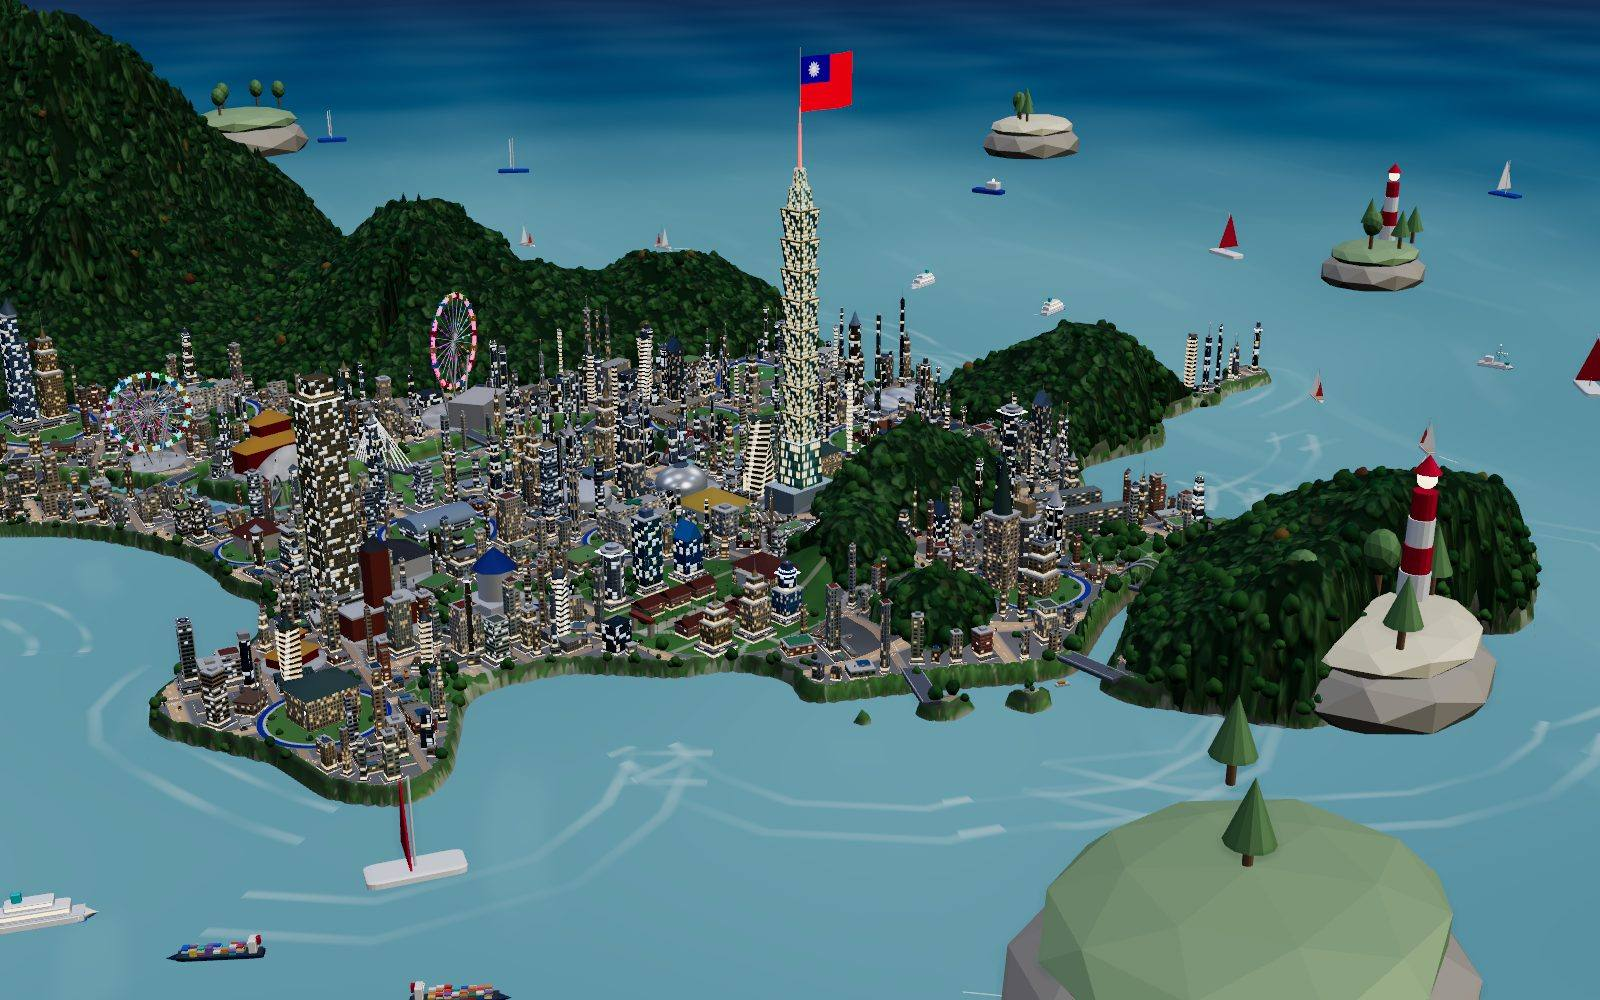
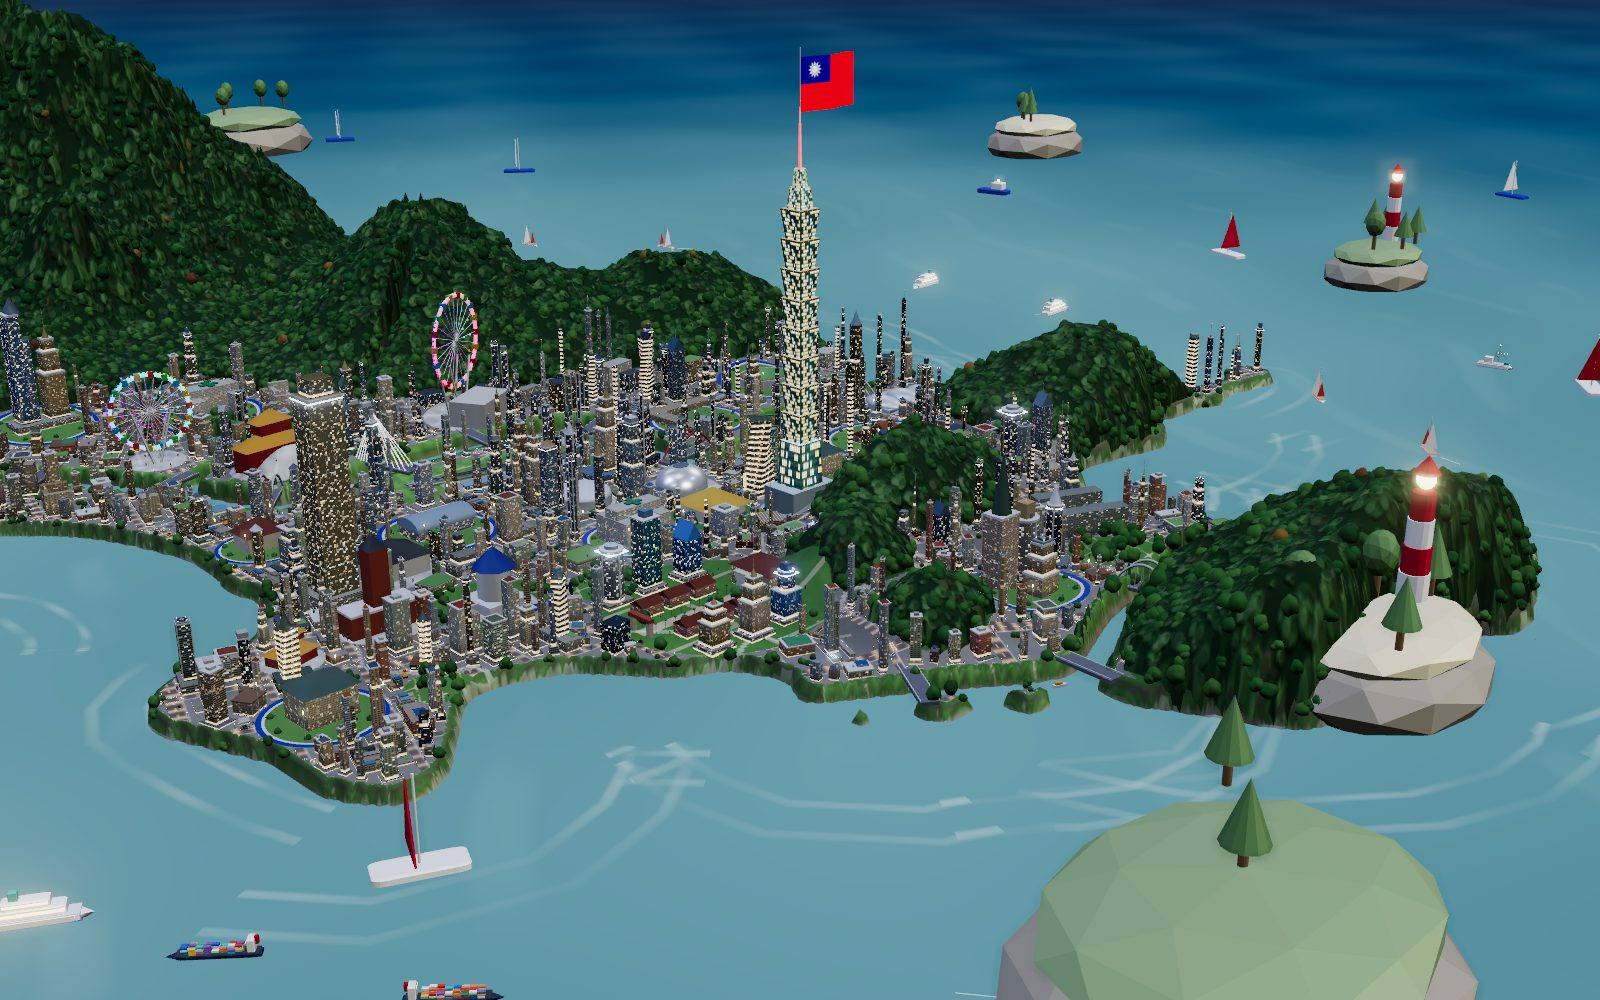
v0.6.4 lighting: brighter sun, stronger moon, varied smaller windows, street lamps with road light pools, night bloom
Claude-Session: https://claude.ai/code/session_01U84tuC4LtVWC4rHRAY9nXo

diff --git a/prototypes/taipei-real-v060.js b/prototypes/taipei-real-v060.js
@@ -59,6 +59,8 @@ const DIST=opts.districts||DISTRICTS;
 const DN=['北投','士林','內湖','中山','大同','松山','南港','信義','大安','中正','萬華','文山'];
 const DP={北投:[.55,7.8,1.7],士林:[.25,7.8,1.9],內湖:[-.2,8.8,2.1],中山:[0,7.8,2.5],大同:[.02,6.8,1.8],松山:[0,8.3,2.5],南港:[.15,8.8,1.9],信義:[0,8.3,2.3],大安:[0,8.3,2.5],中正:[.05,7.8,2.3],萬華:[.32,6.8,1.7],文山:[.42,7.8,1.9]};
 const W=240,MS=768,S=MS/W,N=361,CELL=W/(N-1),TS=2048;
+// 夜景細節（預設關閉，維持 v0.6.1 外觀）：windowScale 縮小窗格、windowVariety 窗燈色溫與亮度各異、streetLamps 路燈與路面光圈
+const WSC=opts.windowScale||1,WVAR=!!opts.windowVariety,SLAMP=!!opts.streetLamps;
 
 /* ---------- utils ---------- */
 function hash(i,j){let n=Math.imul(i,374761393)+Math.imul(j,668265263);n=Math.imul(n^(n>>>13),1274126177);n^=n>>>16;return (n>>>0)/4294967295;}
@@ -308,8 +310,13 @@ landMat.onBeforeCompile=sh=>{Object.assign(sh.uniforms,{uUrban:{value:urbanTex},
    if(rv>.5&&ru<.5){paint=max(paint,(wv>1.?1.-smoothstep(.022-fw,.022+fw,abs(mv-wv*.5)):0.)*step(fract(u/1.1),.5));
      float near=step(mu,wu+.3)+step(B-.3,mu);paint=max(paint,min(near,1.)*step(.5,fract(v*9.))*step(.06,mv)*step(mv,wv-.06));}
    vec3 col=mix(diffuseColor.rgb,vec3(.62,.61,.58),curb);col=mix(col,asph,road);col=mix(col,vec3(.86,.86,.84),paint*road);
-   diffuseColor.rgb=mix(diffuseColor.rgb,col,smoothstep(.35,.6,um));roadGlow=road*(art?1.:.55)*smoothstep(.35,.6,um);}}`).replace('#include <emissivemap_fragment>','#include <emissivemap_fragment>\n totalEmissiveRadiance+=emissive*vec3(1.,.62,.3)*roadGlow*.55;');};
-landMat.customProgramCacheKey=()=>'tpi-land-roads-v1';
+   diffuseColor.rgb=mix(diffuseColor.rgb,col,smoothstep(.35,.6,um));roadGlow=road*(art?1.:.55)*smoothstep(.35,.6,um);
+   #ifdef SLAMP
+   {float pu=fract(v/1.3)-.5,pv=fract(u/1.3)-.5,poolU=exp(-pu*pu*28.),poolV=exp(-pv*pv*28.);float pool=ru>rv?poolU:poolV;
+    roadGlow=(road*(art?1.:.75)*(.12+1.1*pool)+curb*pool*.7)*smoothstep(.35,.6,um);}
+   #endif
+   }}`).replace('#include <emissivemap_fragment>','#include <emissivemap_fragment>\n totalEmissiveRadiance+=emissive*vec3(1.,.62,.3)*roadGlow*.55;');};
+if(SLAMP)landMat.defines={SLAMP:''};landMat.customProgramCacheKey=()=>'tpi-land-roads-v1'+(SLAMP?'L':'');
 const land=new THREE.Mesh(tgeo,landMat);
 land.receiveShadow=true;scene.add(land);
 
@@ -378,10 +385,18 @@ function patch(mat,fw,fh,ws){mat.onBeforeCompile=sh=>{Object.assign(sh.uniforms,
  diffuseColor.rgb*=mix(0.55,1.0,smoothstep(0.0,1.6,vLocalY))*mix(0.94,1.0,smoothstep(0.0,6.0,vLocalY));
 #endif`).replace('#include <emissivemap_fragment>',`#ifdef USE_EMISSIVEMAP
  vec2 wcell=floor(vEmissiveMapUv*vec2(4.0,8.0));float wr=fract(sin(dot(wcell,vec2(12.9898,78.233))+dot(floor(vWorldXZ),vec2(3.17,7.31)))*43758.5453);
+#ifdef WINVAR
+ vec3 em=texture2D(emissiveMap,vEmissiveMapUv).rgb;float lum=max(em.r,max(em.g,em.b));
+ float w2=fract(sin(dot(wcell,vec2(91.7,27.3))+dot(floor(vWorldXZ),vec2(5.1,1.7)))*24634.6),w3=fract(wr*7.31+w2*3.17);
+ vec3 tint=w2<.5?vec3(1.,.78,.48):w2<.76?vec3(1.,.93,.8):w2<.9?vec3(.72,.86,1.):vec3(1.,.58,.32);
+ totalEmissiveRadiance*=lum*tint*(1.0-vRoof)*step(0.52,wr)*(0.25+0.95*w3*w3);
+#else
  totalEmissiveRadiance*=texture2D(emissiveMap,vEmissiveMapUv).rgb*(1.0-vRoof)*step(0.42,wr)*(0.45+0.55*wr);
+#endif
  totalEmissiveRadiance+=emissive*vec3(1.0,0.72,0.42)*0.9*(1.0-smoothstep(0.16,0.3,vLocalY))*(1.0-vRoof);
 #endif`);};
- mat.customProgramCacheKey=()=>'fac160'+fw+'_'+fh+'_'+ws;}
+ if(WVAR)mat.defines={...(mat.defines||{}),WINVAR:''};
+ mat.customProgramCacheKey=()=>'fac160'+fw+'_'+fh+'_'+ws+(WVAR?'v':'');}
 
 /* ---------- geometries ---------- */
 function prism(){const p=[-.5,0,-.5,-.5,0,.5,-.5,1,0, .5,0,.5,.5,0,-.5,.5,1,0, -.5,0,.5,.5,0,.5,.5,1,0, -.5,0,.5,.5,1,0,-.5,1,0, .5,0,-.5,-.5,0,-.5,-.5,1,0, .5,0,-.5,-.5,1,0,.5,1,0];
@@ -396,7 +411,7 @@ const beaconM=nightable(new THREE.MeshStandardMaterial({color:'#ff3a2a',emissive
 const groups={};
 function put(g,mt,x,y,z,sx,sy,sz,ry,c){const key=g+'|'+mt;(groups[key]||(groups[key]={g,mt,list:[]})).list.push([x,y,z,sx,sy,sz,ry,c]);}
 function flush(){Object.values(groups).forEach(gr=>{let mat;
-  if(typeof gr.mt==='number'){const f=FT[gr.mt];mat=nightable(new THREE.MeshStandardMaterial({map:f.m,emissiveMap:f.em,roughnessMap:f.rm,normalMap:f.nm,normalScale:new THREE.Vector2(1.3,1.3),emissive:'#ffffff',roughness:1,metalness:gr.mt===1?.5:.05,envMapIntensity:gr.mt===1?1:.6}),0,.9);patch(mat,f.fw,f.fh,WS[gr.g]||1);}
+  if(typeof gr.mt==='number'){const f=FT[gr.mt];mat=nightable(new THREE.MeshStandardMaterial({map:f.m,emissiveMap:f.em,roughnessMap:f.rm,normalMap:f.nm,normalScale:new THREE.Vector2(1.3,1.3),emissive:'#ffffff',roughness:1,metalness:gr.mt===1?.5:.05,envMapIntensity:gr.mt===1?1:.6}),0,.9);patch(mat,f.fw*WSC,f.fh*WSC,WS[gr.g]||1);}
   else mat=gr.mt==='metal'?metalM:gr.mt==='beacon'?beaconM:gr.mt==='lamp'?lampM:gr.mt==='led'?ledM:plainM;
   const im=new THREE.InstancedMesh(typeof gr.mt==='number'&&gr.g==='box'?GEO.rbox:GEO[gr.g],mat,gr.list.length);
   gr.list.forEach((b,i)=>{qq.setFromAxisAngle(YAX,b[6]);m4.compose(pv.set(b[0],b[1],b[2]),qq,sv.set(b[3],b[4],b[5]));im.setMatrixAt(i,m4);im.setColorAt(i,col.set(b[7]||'#ffffff'));});
@@ -545,6 +560,9 @@ DN.forEach((nm,di)=>{const [ang,B]=DP[nm],c=Math.cos(ang),s=Math.sin(ang),id=di+
     {const vm=iv*B+B/2,um=iu*B+B/2;for(const [uu,vv,dx,dz,L] of [[iu*B+wu+.07,iv*B+wv,-s,c,B-wv],[iu*B+B-.07,iv*B+wv,-s,c,B-wv],[iu*B+wu,iv*B+wv+.07,c,s,B-wu],[iu*B+wu,iv*B+B-.07,c,s,B-wu]]){
       const x0=uu*c-vv*s,z0=uu*s+vv*c,mx=x0+dx*L/2,mz=z0+dz*L/2;if(did(mx,mz)===id&&urb(mx,mz)&&rnd()<.55)walkPaths.push([x0,z0,dx,dz,L]);}}
     if(wu>1)for(let t=0;t<B;t+=1.3){const u=iu*B-.05,v=iv*B+t,x=u*c-v*s,z=u*s+v*c;if(rnd()<.35&&did(x,z)===id&&urb(x,z))streetTrees.push([x,z]);}
+    if(SLAMP){const lamp=(x,z)=>{if(did(x,z)!==id||!urb(x,z))return;const y=Hh(x,z)-.05;put('tank','metal',x,y,z,.025,.34,.025,0,'#8d949a');put('bead','lamp',x,y+.35,z,.07,.05,.07,0);};
+     for(let m=Math.ceil((iv*B+wv)/1.3-.5);(m+.5)*1.3<iv*B+B-.2;m++){const v=(m+.5)*1.3,u=m%2?iu*B-.07:iu*B+wu+.07;lamp(u*c-v*s,u*s+v*c);}
+     for(let m=Math.ceil((iu*B+wu)/1.3-.5);(m+.5)*1.3<iu*B+B-.2;m++){const u=(m+.5)*1.3,v=m%2?iv*B-.07:iv*B+wv+.07;lamp(u*c-v*s,u*s+v*c);}}
     if(wv>1)for(let t=0;t<B;t+=1.3){const u=iu*B+t,v=iv*B-.05,x=u*c-v*s,z=u*s+v*c;if(rnd()<.35&&did(x,z)===id&&urb(x,z))streetTrees.push([x,z]);}
     if(carData.length<700){
     if(wu>1)[[.28,1],[.72,-1]].forEach(([f,sg])=>{if(rnd()<.6){const u=iu*B+wu*f,v0=iv*B+wv,L=B-wv,mx=u*c-(v0+L/2)*s,mz=u*s+(v0+L/2)*c;if(did(mx,mz)===id&&urb(mx,mz)){const vs=sg>0?v0:v0+L;carData.push([u*c-vs*s,u*s+vs*c,-s*sg,c*sg,L,rnd()*L,.5+rnd()*.5,Hh(mx,mz)]);}}});

diff --git a/prototypes/greater-taipei-v0.6.4.html b/prototypes/greater-taipei-v0.6.4.html
@@ -820,6 +820,7 @@ if(h){if(themeById.has(h))openTheme(h);else if(items.has(h))openItem(h);else if(
 <script type="module" onerror="window.cityLoadFailed()">
 import * as THREE from "three";
 import {createTaipeiIsland as createRealTaipei} from './taipei-real-v060.js?rev=2';
+import {UnrealBloomPass} from 'three/addons/postprocessing/UnrealBloomPass.js';
 import {createPanoramaLife} from "./panorama-life-v0412.js";
 import {buildTransportNetwork} from './transport-network-v0411.js?rev=1';
 import { OrbitControls } from "three/addons/controls/OrbitControls.js";
@@ -4158,7 +4159,7 @@ const REAL_TAIPEI={};
  let cx0=1e9,cx1=-1e9,cz0=1e9,cz1=-1e9;for(const [x,z] of coast){cx0=Math.min(cx0,x);cx1=Math.max(cx1,x);cz0=Math.min(cz0,z);cz1=Math.max(cz1,z);}
  const tpIslands=islands.filter(i=>i.city==='taipei');
  const themes=tpIslands.map(i=>({id:i.t.id,name:i.t.name,kind:i.t.kind,area:i.t.area,no:i.t.no,items:i.t.items||[]}));
- const real=createRealTaipei(document.createElement('div'),{embed:true,renderer,postprocessing:false,ui:false,policies:themes,cityColor:cityHex('taipei'),flagScale:2,campusRadius:5.4,campusHeight:2.2,nightBoost:1.15,carScale:1.5,walkerScale:3.2});
+ const real=createRealTaipei(document.createElement('div'),{embed:true,renderer,postprocessing:false,ui:false,policies:themes,cityColor:cityHex('taipei'),flagScale:2,windowScale:.5,windowVariety:true,streetLamps:true,campusRadius:5.4,campusHeight:2.2,nightBoost:1.15,carScale:1.5,walkerScale:3.2});
  const g=real.root,lb=g.userData.landBounds;
  const k=Math.min((cx1-cx0)/(lb.maxX-lb.minX),(cz1-cz0)/(lb.maxZ-lb.minZ))*1.02;
  g.scale.setScalar(k);
@@ -4239,9 +4240,9 @@ APPROVED_ART.update=(dt,time,moving)=>{APPROVED_ART.transport.update(dt,time,mov
 APPROVED_ART.ao=artAO;
 {const nativeUpdate=APPROVED_ART.update;let realNight=null;const lightBase=new Map(),lightSet=new Map();let lights=null,envMats=null,envKey='';
  const moon=new THREE.DirectionalLight('#aec6ff',0);moon.name='moonlight';moon.position.set(-70,140,-50);scene.add(moon);scene.add(moon.target);
- window.NIGHT_LOOK=window.NIGHT_LOOK||{dim:.55,env:.6,moon:.9};
+ window.NIGHT_LOOK=window.NIGHT_LOOK||{dim:.45,env:.55,moon:1.6,day:.35};
  const dimNature=()=>{const L=window.NIGHT_LOOK;if(!lights){lights=[];scene.traverse(o=>{if((o.isHemisphereLight||o.isDirectionalLight||o.isAmbientLight)&&o!==moon)lights.push(o);});}
-  const night=ENV.state?.night||0,f=1-L.dim*night,key=night.toFixed(2)+'/'+L.env;
+  const night=ENV.state?.night||0,f=(1-L.dim*night)*(1+(L.day||0)*(1-night)),key=night.toFixed(2)+'/'+L.env;
   if(key!==envKey){envKey=key;if(!envMats){envMats=new Map();scene.traverse(o=>{if(o.isMesh)for(const m of [o.material].flat())if(m&&m.isMeshStandardMaterial&&!envMats.has(m))envMats.set(m,m.envMapIntensity);});}envMats.forEach((v,m)=>m.envMapIntensity=v*(1-L.env*night));}
   lights.forEach(o=>{if(!lightSet.has(o)||Math.abs(o.intensity-lightSet.get(o))>1e-6)lightBase.set(o,o.intensity);const v=lightBase.get(o)*f;o.intensity=v;lightSet.set(o,v);});
   moon.intensity=L.moon*night;};
@@ -4258,7 +4259,11 @@ APPROVED_ART.ao=artAO;
   if(f.wait>0){f.wait-=dt;root.visible=false;continue;}
   f.t+=dt*f.speed/f.len;if(f.t>=1){newCourse(f);root.visible=false;continue;}
   root.position.set(f.ax+(f.bx-f.ax)*f.t,f.y,f.az+(f.bz-f.az)*f.t);root.rotation.set(0,f.yaw,0);root.visible=true;}};
- APPROVED_ART.update=(dt,time,moving)=>{nativeUpdate(dt,time,moving);flyPlanes(dt,moving);const n=(ENV.state?.night||0)>.5;if(n!==realNight){realNight=n;REAL_TAIPEI.engine.setNight(n);}dimNature();if(moving)REAL_TAIPEI.engine.update(dt);};}
+ // Night glow: bloom on bright windows, lamps and lit roads (off in daylight so water glints never bloom).
+ const bloom=new UnrealBloomPass(new THREE.Vector2(256,256),.75,.55,.82);bloom.enabled=false;artComposer.insertPass(bloom,artComposer.passes.length-1);
+ const bloomSize=()=>{const pr=Math.min(renderer.getPixelRatio(),1.5)*.5;bloom.setSize(Math.max(64,stage.clientWidth*pr|0),Math.max(64,stage.clientHeight*pr|0));};bloomSize();addEventListener('resize',bloomSize);
+ const glow=()=>{const night=ENV.state?.night||0;bloom.enabled=night>.25;bloom.strength=.55*night;bloom.threshold=1.;bloom.radius=.5;};
+ APPROVED_ART.update=(dt,time,moving)=>{nativeUpdate(dt,time,moving);flyPlanes(dt,moving);glow();const n=(ENV.state?.night||0)>.5;if(n!==realNight){realNight=n;REAL_TAIPEI.engine.setNight(n);}dimNature();if(moving)REAL_TAIPEI.engine.update(dt);};}
 
 APPROVED_ART.streetFrame=(city='taipei')=>{const c=APPROVED_ART.cities.get(city),S=c.plan.scale,offset=c.root.position;
 const choices=c.streetDetails.sites.filter(s=>s.w>=7&&s.height>=8&&s.height<=30);

diff --git a/tools/build_taipei_real_v064_preview.py b/tools/build_taipei_real_v064_preview.py
@@ -23,9 +23,9 @@ base = runpy.run_path(str(ROOT / "tools" / "build_taipei_real_shell_preview.py")
 UPDATE = r"""
 {const nativeUpdate=APPROVED_ART.update;let realNight=null;const lightBase=new Map(),lightSet=new Map();let lights=null,envMats=null,envKey='';
  const moon=new THREE.DirectionalLight('#aec6ff',0);moon.name='moonlight';moon.position.set(-70,140,-50);scene.add(moon);scene.add(moon.target);
- window.NIGHT_LOOK=window.NIGHT_LOOK||{dim:.55,env:.6,moon:.9};
+ window.NIGHT_LOOK=window.NIGHT_LOOK||{dim:.45,env:.55,moon:1.6,day:.35};
  const dimNature=()=>{const L=window.NIGHT_LOOK;if(!lights){lights=[];scene.traverse(o=>{if((o.isHemisphereLight||o.isDirectionalLight||o.isAmbientLight)&&o!==moon)lights.push(o);});}
-  const night=ENV.state?.night||0,f=1-L.dim*night,key=night.toFixed(2)+'/'+L.env;
+  const night=ENV.state?.night||0,f=(1-L.dim*night)*(1+(L.day||0)*(1-night)),key=night.toFixed(2)+'/'+L.env;
   if(key!==envKey){envKey=key;if(!envMats){envMats=new Map();scene.traverse(o=>{if(o.isMesh)for(const m of [o.material].flat())if(m&&m.isMeshStandardMaterial&&!envMats.has(m))envMats.set(m,m.envMapIntensity);});}envMats.forEach((v,m)=>m.envMapIntensity=v*(1-L.env*night));}
   lights.forEach(o=>{if(!lightSet.has(o)||Math.abs(o.intensity-lightSet.get(o))>1e-6)lightBase.set(o,o.intensity);const v=lightBase.get(o)*f;o.intensity=v;lightSet.set(o,v);});
   moon.intensity=L.moon*night;};
@@ -42,7 +42,11 @@ UPDATE = r"""
   if(f.wait>0){f.wait-=dt;root.visible=false;continue;}
   f.t+=dt*f.speed/f.len;if(f.t>=1){newCourse(f);root.visible=false;continue;}
   root.position.set(f.ax+(f.bx-f.ax)*f.t,f.y,f.az+(f.bz-f.az)*f.t);root.rotation.set(0,f.yaw,0);root.visible=true;}};
- APPROVED_ART.update=(dt,time,moving)=>{nativeUpdate(dt,time,moving);flyPlanes(dt,moving);const n=(ENV.state?.night||0)>.5;if(n!==realNight){realNight=n;REAL_TAIPEI.engine.setNight(n);}dimNature();if(moving)REAL_TAIPEI.engine.update(dt);};}
+ // Night glow: bloom on bright windows, lamps and lit roads (off in daylight so water glints never bloom).
+ const bloom=new UnrealBloomPass(new THREE.Vector2(256,256),.75,.55,.82);bloom.enabled=false;artComposer.insertPass(bloom,artComposer.passes.length-1);
+ const bloomSize=()=>{const pr=Math.min(renderer.getPixelRatio(),1.5)*.5;bloom.setSize(Math.max(64,stage.clientWidth*pr|0),Math.max(64,stage.clientHeight*pr|0));};bloomSize();addEventListener('resize',bloomSize);
+ const glow=()=>{const night=ENV.state?.night||0;bloom.enabled=night>.25;bloom.strength=.55*night;bloom.threshold=1.;bloom.radius=.5;};
+ APPROVED_ART.update=(dt,time,moving)=>{nativeUpdate(dt,time,moving);flyPlanes(dt,moving);glow();const n=(ENV.state?.night||0)>.5;if(n!==realNight){realNight=n;REAL_TAIPEI.engine.setNight(n);}dimNature();if(moving)REAL_TAIPEI.engine.update(dt);};}
 """
 
 
@@ -82,8 +86,8 @@ def build():
         assert s.count(a) >= 1, a[:80]
         s = s.replace(a, b, count)
 
-    sub('import * as THREE from "three";\n', 'import * as THREE from "three";\n' + base["IMPORT"])
-    replace = base["REPLACE"].replace("campusRadius:5.4,", "flagScale:2,campusRadius:5.4,")  # 101 flag twice as large
+    sub('import * as THREE from "three";\n', 'import * as THREE from "three";\n' + base["IMPORT"] + "import {UnrealBloomPass} from 'three/addons/postprocessing/UnrealBloomPass.js';\n")
+    replace = base["REPLACE"].replace("campusRadius:5.4,", "flagScale:2,windowScale:.5,windowVariety:true,streetLamps:true,campusRadius:5.4,")  # 101 flag twice as large
     assert "flagScale:2" in replace
     sub("APPROVED_ART.transport=await buildTransportNetwork(", replace + "APPROVED_ART.transport=await buildTransportNetwork(")
     sub("APPROVED_ART.ao=artAO;", "APPROVED_ART.ao=artAO;" + UPDATE)

diff --git a/docs/TAIPEI_REAL_V060.md b/docs/TAIPEI_REAL_V060.md
@@ -136,3 +136,12 @@ python3 tools/build_taipei_real_preview.py
 - 桌機版工具列整合為單一一條：地標、導覽、音樂、時間｜全景、政策、？（中間以分隔線區分）。
 - 載入畫面圖（`assets/poster-v064-*.jpg`）已依新國旗重新產生。
 - 載入畫面改為「預設畫面＋失焦」：預先算好的預設視角圖加上模糊，「正在載入你的理想城市」（含轉圈）放在畫面正中央，直到 3D 準備完成。
+
+### v0.6.4 光感調整（10/29）
+
+- 白天：自然光加強 35%（`NIGHT_LOOK.day`），陽光感更明顯。
+- 夜晚：月光加強（`dim .45`、`env .55`、`moon 1.6`），保留更多冷藍色環境光。
+- 建築窗燈（引擎選項，僅 v0.6.4 開啟）：`windowScale:.5` 窗格縮小一半；`windowVariety` 每扇窗的色溫（暖黃、暖白、冷白、琥珀）、亮燈比例與亮度各不相同。
+- 路燈（`streetLamps`）：每條街道每 1.3 單位一盞路燈（燈桿＋夜間發光燈頭），兩側交錯；地面道路在燈下有暖色光圈、燈與燈之間較暗，路緣也被照亮。
+- 光暈：夜間在畫面合成中加入 bloom（門檻 1.0、強度隨夜色到 0.55），讓亮窗、路燈、燈光路面有柔和光暈；白天關閉，避免海面反光泛白。
+- 載入畫面圖已依新光感重新產生。
